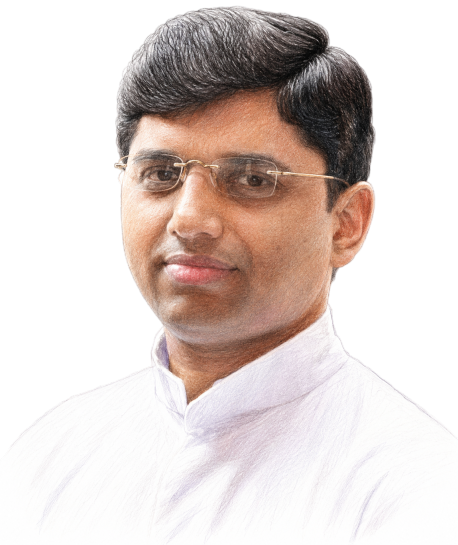
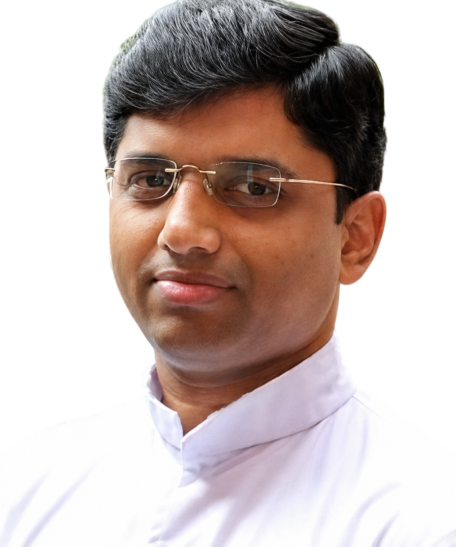
administration profile updated

diff --git a/components/ui/FlowingTimeline.tsx b/components/ui/FlowingTimeline.tsx
@@ -208,7 +208,7 @@ export default function FlowingTimeline() {
                   }
                   
                   const containerClasses = `relative shrink-0 rounded-xl overflow-hidden ${isRubin ? 'w-48 h-64 md:w-60 md:h-80' : 'bg-white border border-white w-16 h-16 md:w-20 md:h-20'}`;
-                  const textContainerClasses = `text-center ${isRubin ? '-mt-8 md:-mt-16 z-10 relative' : ''}`;
+                  const textContainerClasses = `text-center ${isRubin ? '-mt-2 md:-mt-4 z-10 relative' : ''}`;
                   
                   return (
                     <div key={i} className="flex flex-col items-center gap-2 min-w-[80px]">
